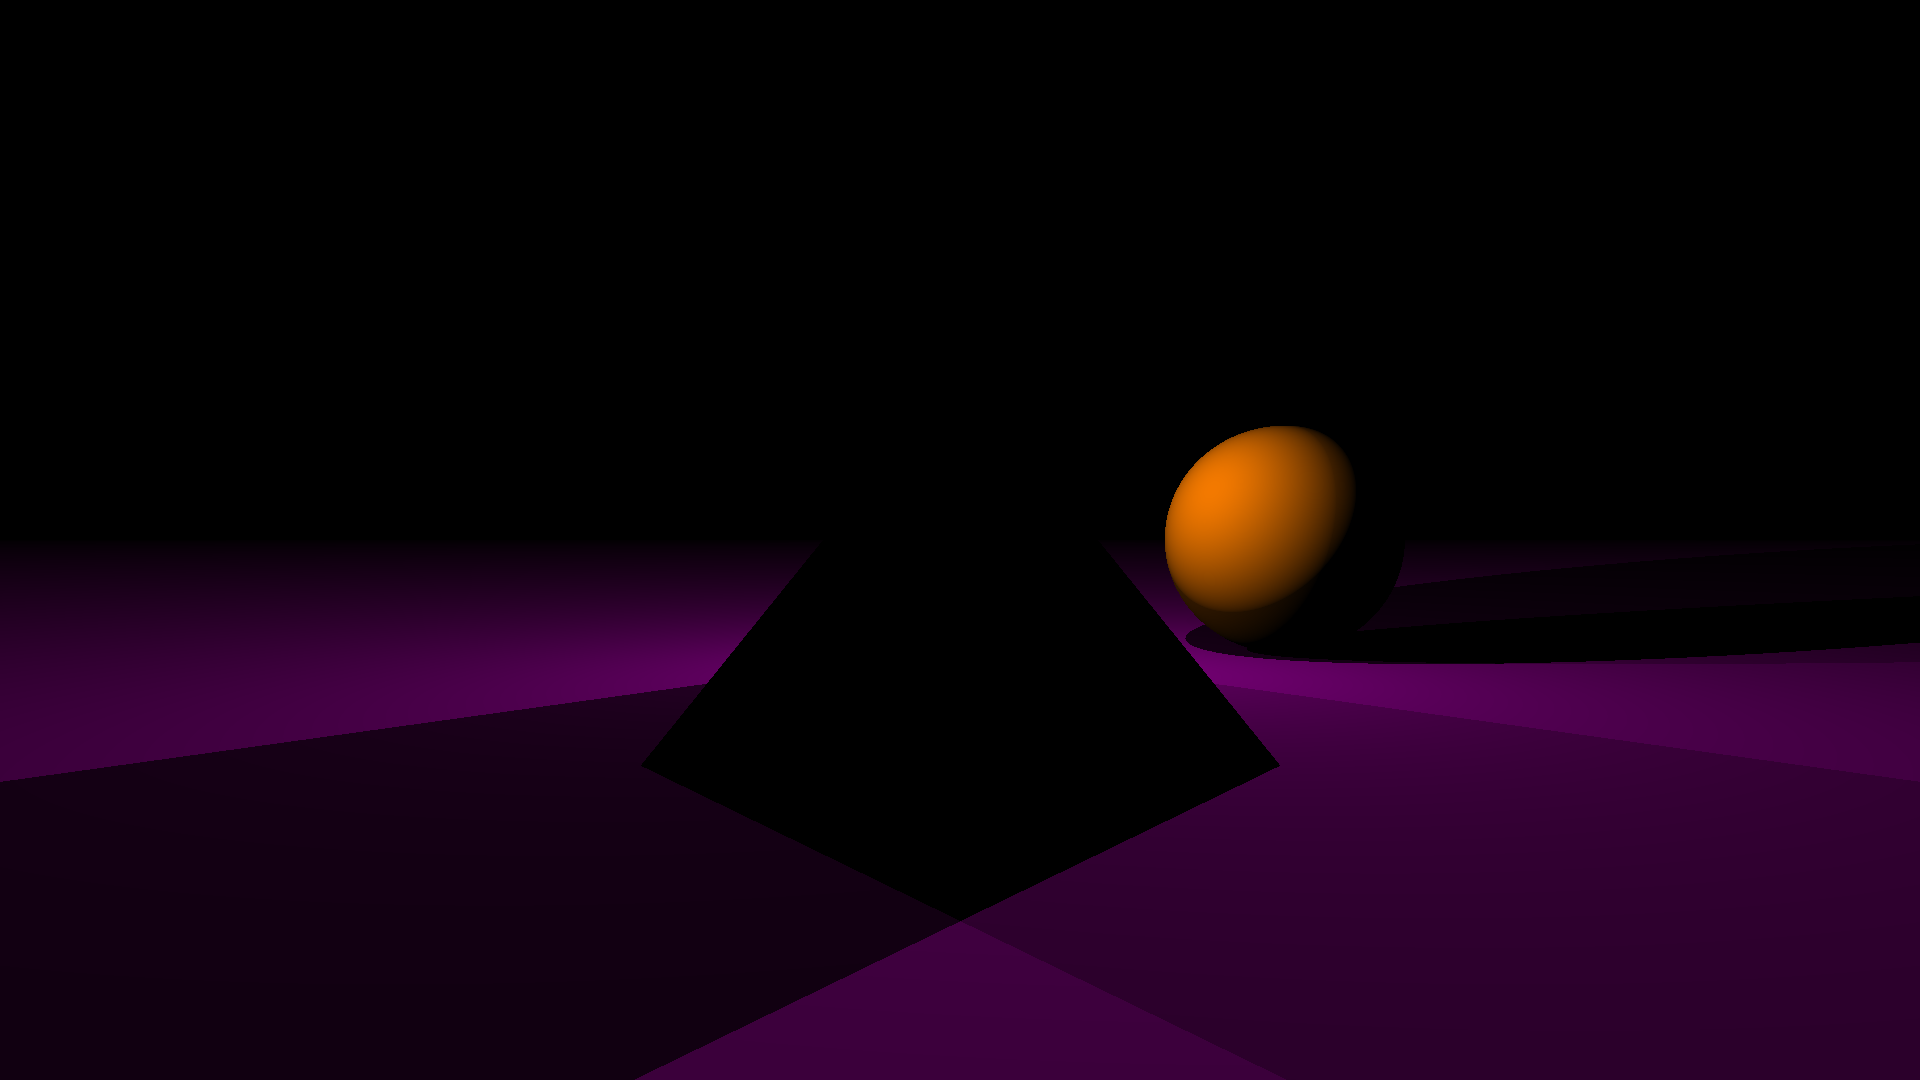
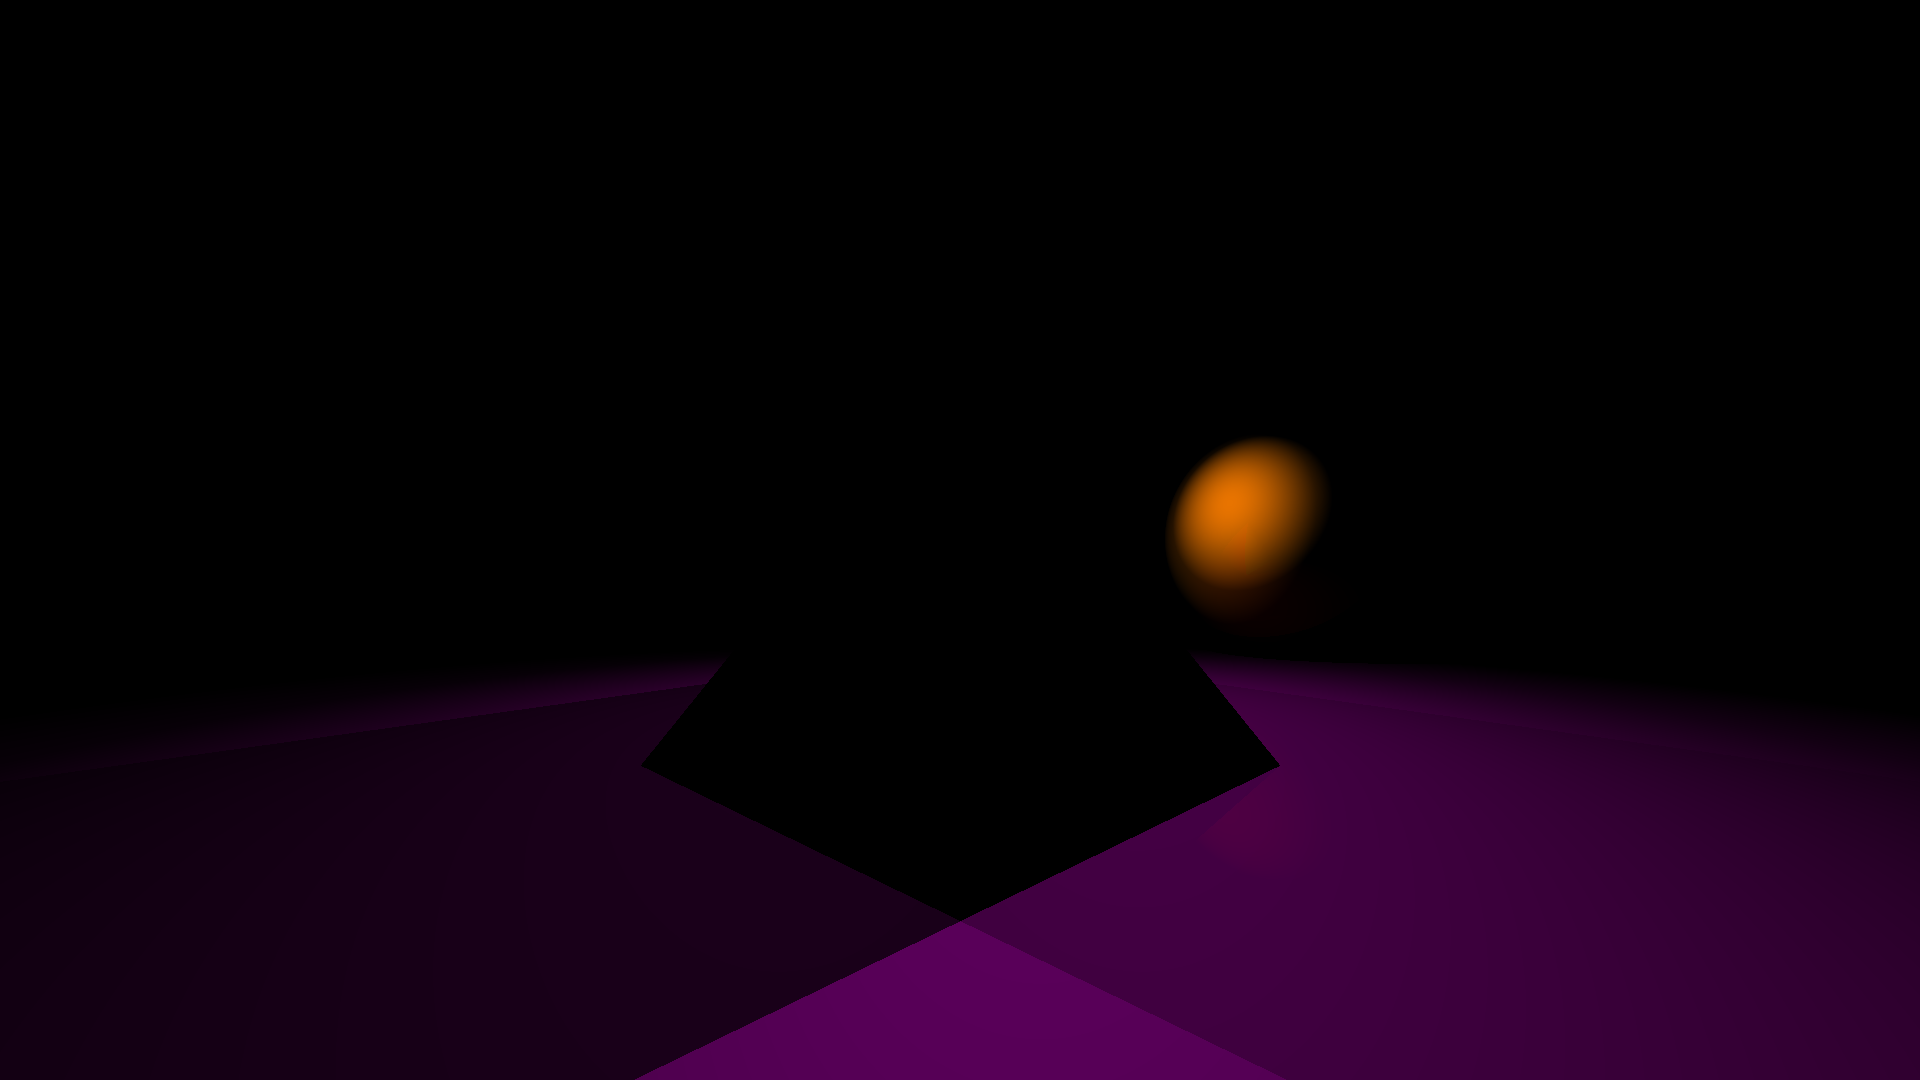
fix: roughness

diff --git a/example/project_v1/version_02.cpp b/example/project_v1/version_02.cpp
@@ -43,7 +43,7 @@ Plane buildPlane() {
 
     Vetor n1 = (Vetor(p1) - Vetor(p0)).cross(Vetor(p2) - Vetor(p0)).normalize();
 
-    Plane plane(p0, n1, purple, 0.60, 0.80, 0.20, 0.10, 0.10, 0.50);
+    Plane plane(p0, n1, purple, 0.60, 0.80, 0.20, 0.10, 0.10, 1.0);
 
     return plane;
 }
@@ -54,7 +54,7 @@ Sphere buildSphere() {
     Point center(200, 0, 50);
     double radius = 50;
 
-    Sphere sphere(center, radius, orange, 0.60, 0.80, 0.20, 0.10, 0.00, 0.50);
+    Sphere sphere(center, radius, orange, 0.60, 0.80, 0.20, 0.10, 0.00, 1.00);
 
     return sphere;
 }
